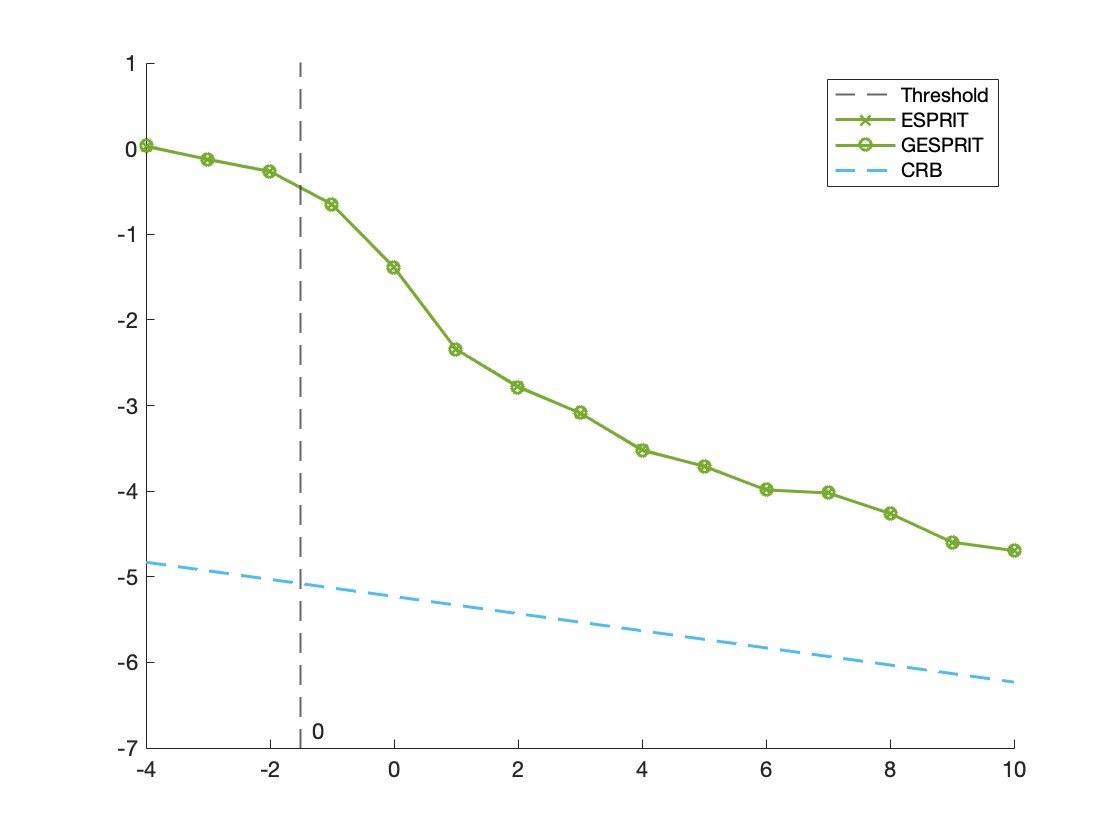
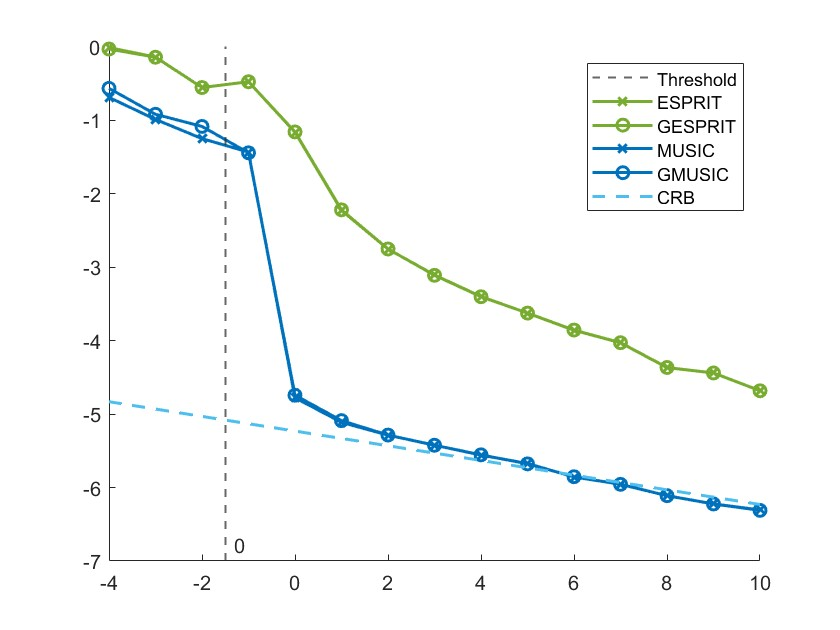
update

diff --git a/Testcode/OOPCode/Figure_2.m b/Testcode/OOPCode/Figure_2.m
@@ -12,7 +12,7 @@ P = [1 0.4; 0.4 1];
 
 SNRList = 0:1:8;
 ScanArea = [-pi/2 pi/2];
-ScanPrec = 4000;
+ScanPrec = 8000;
 
 % 变量
 VariableList = SNRList;
@@ -29,7 +29,7 @@ end
 
 nbLoop = 100;
 % 跟Loop 有关的变量  
-ReceivedNum1 = 2;
+ReceivedNum1 = 4;
 DoA_Nb = zeros(ReceivedNum1,nbLoop,k);
 MSE_Nb =  zeros(ReceivedNum1,nbLoop);
 EiValue_Nb= zeros(ReceivedNum1,nbLoop,k);
@@ -50,9 +50,9 @@ for object_i = 1:length(ArrayObject)
         [DoA_Nb(1,Loop_i,:),MSE_Nb(1,Loop_i),EiValue_Nb(1,Loop_i,:)]  = ObjectNow.GetESPRIT();                
         [DoA_Nb(2,Loop_i,:),MSE_Nb(2,Loop_i),EiValue_Nb(2,Loop_i,:)]  = ObjectNow.GetGESPRIT('Empirical-2');   
 %         [DoA_Nb(3,Loop_i,:),MSE_Nb(3,Loop_i)]  = ObjectNow.GetMusic(ScanArea,ScanPrec);
-%         [DoA_Nb(4,Loop_i,:),MSE_Nb(4,Loop_i)]  = ObjectNow.GetGMusic(ScanArea,ScanPrec); 
-%         [DoA_Nb(3,Loop_i,:),MSE_Nb(3,Loop_i),...
-%          DoA_Nb(4,Loop_i,:),MSE_Nb(4,Loop_i)] = ObjectNow.GetMusicType(ScanArea,ScanPrec,'Empirical-2');
+        [DoA_Nb(4,Loop_i,:),MSE_Nb(4,Loop_i)]  = ObjectNow.GetGMusic(ScanArea,ScanPrec); 
+        [DoA_Nb(3,Loop_i,:),MSE_Nb(3,Loop_i),...
+         DoA_Nb(4,Loop_i,:),MSE_Nb(4,Loop_i)] = ObjectNow.GetMusicType(ScanArea,ScanPrec,'Empirical-2');
     end
 
     for kk = 1:ReceivedNum2
@@ -70,10 +70,10 @@ xline(ObjectNow.SepCondition,'LineWidth',1,'LineStyle','--' ,'Label', ...
     'LabelOrientation','horizontal');  % condition
 plot(VariableList,log10(MSE_VList(1,:)),'LineStyle','-','Color','#77AC30','Marker','x','LineWidth',1.5)
 plot(VariableList,log10(MSE_VList(2,:)),'LineStyle','-','Color','#77AC30','Marker','o','LineWidth',1.5)
-% plot(VariableList,log10(MSE_VList(3,:)),'LineStyle','-','Color','#0072BD','Marker','x','LineWidth',1.5)
-% plot(VariableList,log10(MSE_VList(4,:)),'LineStyle','-','Color','#0072BD','Marker','o','LineWidth',1.5)
+plot(VariableList,log10(MSE_VList(3,:)),'LineStyle','-','Color','#0072BD','Marker','x','LineWidth',1.5)
+plot(VariableList,log10(MSE_VList(4,:)),'LineStyle','-','Color','#0072BD','Marker','o','LineWidth',1.5)
 plot(VariableList,log10(CRB_Res),'LineStyle','--','Color','#4DBEEE','LineWidth',1.5)
-% legend(ShowLegend())
+legend(ShowLegend())
 
 
 % figure;

diff --git a/Testcode/OOPCode/Figure_1.m b/Testcode/OOPCode/Figure_1.m
@@ -29,13 +29,13 @@ end
 
 nbLoop = 100;
 % 跟Loop 有关的变量  
-ReceivedNum1 = 2;
+ReceivedNum1 = 4;
 DoA_Nb = zeros(ReceivedNum1,nbLoop,k);
 MSE_Nb =  zeros(ReceivedNum1,nbLoop);
 EiValue_Nb= zeros(ReceivedNum1,nbLoop,k);
 
 % 跟自变量SNRList有关的变量 
-ReceivedNum2 = 2;
+ReceivedNum2 = ReceivedNum1;
 MSE_VList = zeros(ReceivedNum2,length(VariableList));
 Var_VList = zeros(ReceivedNum2,length(VariableList));
 Bias_VList = zeros(ReceivedNum2,length(VariableList));
